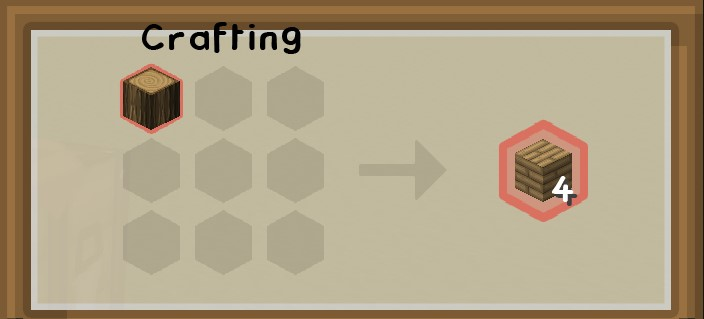
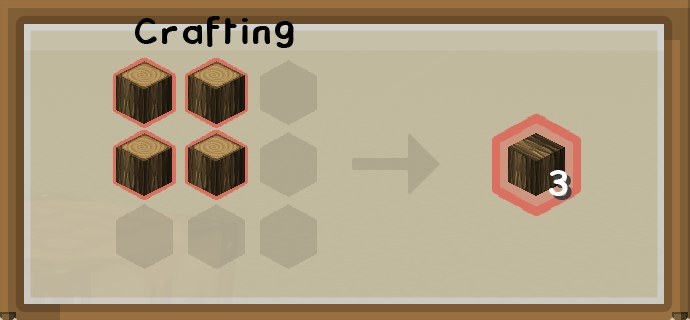
add: more recipies

Changed region(s): [[0.0, 0.0, 1.0, 1.0], [0.7, 0.3386, 0.8522, 0.7053]]

diff --git a/minecraft-builder/src/PageComponents/RecipeLookup/RecipeLookup.tsx b/minecraft-builder/src/PageComponents/RecipeLookup/RecipeLookup.tsx
@@ -75,6 +75,71 @@ import image70 from "../../assets/recipies/trapdoor.jpg";
 import image71 from "../../assets/recipies/waxedcopper.jpg";
 import image72 from "../../assets/recipies/wood.jpg";
 import image73 from "../../assets/recipies/wool.jpg";
+import image74 from "../../assets/recipies/blastFurance.jpg";
+import image75 from "../../assets/recipies/bread.jpg";
+import image76 from "../../assets/recipies/brewingStand.jpg";
+import image77 from "../../assets/recipies/carpet.jpg";
+import image78 from "../../assets/recipies/cauldron.jpg";
+import image79 from "../../assets/recipies/chain.jpg";
+import image80 from "../../assets/recipies/chiseledDeepslate.jpg";
+import image81 from "../../assets/recipies/chiseledPolishedBlackstone.jpg";
+import image82 from "../../assets/recipies/chiseledQuartz.jpg";
+import image83 from "../../assets/recipies/chiseledredsandstone.jpg";
+import image84 from "../../assets/recipies/chiseledStandstone.jpg";
+import image85 from "../../assets/recipies/coalblock.jpg";
+import image86 from "../../assets/recipies/copperBlock.jpg";
+import image87 from "../../assets/recipies/crimsonHyphane.jpg";
+import image88 from "../../assets/recipies/cutRedSandstone.jpg";
+import image89 from "../../assets/recipies/cutSandstone.jpg";
+import image90 from "../../assets/recipies/darkPrismarine.jpg";
+import image91 from "../../assets/recipies/deepslateBricks.jpg";
+import image92 from "../../assets/recipies/deepslateTiles.jpg";
+import image93 from "../../assets/recipies/driedKelp.jpg";
+import image94 from "../../assets/recipies/emeraldBlock.jpg";
+import image95 from "../../assets/recipies/exposedCutCopper.jpg";
+import image96 from "../../assets/recipies/flintandSteal.jpg";
+import image97 from "../../assets/recipies/glisteringMelon.jpg";
+import image98 from "../../assets/recipies/goldblock.jpg";
+import image99 from "../../assets/recipies/goldenCarrot.jpg";
+import image100 from "../../assets/recipies/grindstone.jpg";
+import image101 from "../../assets/recipies/hay.jpg";
+import image102 from "../../assets/recipies/honeyblock.jpg";
+import image103 from "../../assets/recipies/honeycombBlock.jpg";
+import image104 from "../../assets/recipies/ironBlock.jpg";
+import image105 from "../../assets/recipies/LapisBlock.jpg";
+import image106 from "../../assets/recipies/lectern.jpg";
+import image107 from "../../assets/recipies/melon.jpg";
+import image108 from "../../assets/recipies/mossyStonebricks.jpg";
+import image109 from "../../assets/recipies/mushroomStew.jpg";
+import image110 from "../../assets/recipies/netherBricks.jpg";
+import image111 from "../../assets/recipies/oxidizedCutCopper.jpg";
+import image112 from "../../assets/recipies/Pillarquartz.jpg";
+import image113 from "../../assets/recipies/planks.jpg";
+import image114 from "../../assets/recipies/polishedBasalt.jpg";
+import image115 from "../../assets/recipies/poloshedBlackstoneBricks.jpg";
+import image116 from "../../assets/recipies/purpurBlock.jpg";
+import image117 from "../../assets/recipies/purpurPillar.jpg";
+import image118 from "../../assets/recipies/rail.jpg";
+import image119 from "../../assets/recipies/rawCopperBlock.jpg";
+import image120 from "../../assets/recipies/RawGoldBlock.jpg";
+import image121 from "../../assets/recipies/redNetherBrick.jpg";
+import image122 from "../../assets/recipies/redsandstone.jpg";
+import image123 from "../../assets/recipies/shears.jpg";
+import image124 from "../../assets/recipies/smoker.jpg";
+import image125 from "../../assets/recipies/strippedwood.jpg";
+import image126 from "../../assets/recipies/terracotta.jpg";
+import image127 from "../../assets/recipies/waxedCutCopper.jpg";
+import image128 from "../../assets/recipies/waxedExposedCopper.jpg";
+import image129 from "../../assets/recipies/waxedExposedCutCopper.jpg";
+import image130 from "../../assets/recipies/waxedOxidizedCopper.jpg";
+import image131 from "../../assets/recipies/waxedOxidizedCutCopper.jpg";
+import image132 from "../../assets/recipies/waxedWeatheredCopper.jpg";
+import image133 from "../../assets/recipies/waxedWeatheredCutCopper.jpg";
+import image134 from "../../assets/recipies/weatheredCutCopper.jpg";
+import image135 from "../../assets/recipies/woolcolors.jpg";
+import image136 from "../../assets/recipies/lead.jpg";
+
+
 
 interface RecipeImages {
   [key: string]: string;
@@ -87,7 +152,7 @@ export const RecipeLookup = () => {
     arrow: image4,
     axe: image5,
     bamboo_plank: image6,
-    bars: image7,
+    iron_bars: image7,
     bed: image8,
     block_of_bamboo: image9,
     boat: image10,
@@ -101,8 +166,8 @@ export const RecipeLookup = () => {
     candle: image18,
     chest: image19,
     chestplate: image20,
-    chiseled_brick: image21,
-    chiseled_netherbrick: image22,
+    chiseled_brick_block: image21,
+    chiseled_netherbrick_block: image22,
     clock: image23,
     cobblestone_wall: image24,
     compass: image25,
@@ -112,20 +177,20 @@ export const RecipeLookup = () => {
     diamond_block: image29,
     door: image30,
     enchantment_table: image31,
-    endbrick: image32,
+    end_stone_brick: image32,
     fence: image33,
     fishing_rod: image34,
-    gate: image35,
+    fence_gate: image35,
     golden_apple: image36,
     hanging_sign: image37,
     helmet: image38,
     hoe: image39,
-    itemframe: image40,
+    item_frame: image40,
     ladder: image41,
     lantern: image42,
     mossy_cobblestone: image43,
     painting: image44,
-    panes: image45,
+    glass_panes: image45,
     leggings: image46,
     pickaxe: image47,
     flower_pot: image48,
@@ -134,7 +199,7 @@ export const RecipeLookup = () => {
     quartz_block: image51,
     quartz_brick: image52,
     raw_iron_block: image53,
-    sand: image54,
+    sandstone: image54,
     scaffolding: image55,
     shield: image56,
     shovel: image57,
@@ -152,8 +217,75 @@ export const RecipeLookup = () => {
     torch: image69,
     trapdoor: image70,
     waxed_copper_block: image71,
-    wood: image72,
+    planks: image72,
     wool: image73,
+    blast_furnace: image74,
+    bread: image75,
+    brewing_stand: image76,
+    carpet: image77,
+    cauldron: image78,
+    chain: image79,
+    chiseled_deepslate: image80,
+    chiseled_polished_blackstone: image81,
+    chiseled_quartz: image82,
+    chiseled_red_sandstone: image83,
+    chiseled_sandstone: image84,
+    coal_block: image85,
+    copper_block: image86,
+    crimson_hyphae: image87,
+    cut_red_sandstone: image88,
+    cut_sandstone: image89,
+    dark_prismarine: image90,
+    deepslate_bricks: image91,
+    deepslate_tile: image92,
+    dried_kelp: image93,
+    emerald_block: image94,
+    exposed_cut_copper: image95,
+    flint_and_steel: image96,
+    glistering_melon: image97,
+    gold_block: image98,
+    golden_carrot: image99,
+    grindstone: image100,
+    hay: image101,
+    honey_block: image102,
+    honeycomb_block: image103,
+    iron_block: image104,
+    lapis_lazuli_block: image105,
+    lectern: image106,
+    melon: image107,
+    mossy_stone_brick: image108,
+    mushroom_stew: image109,
+    nether_brick: image110,
+    oxidized_cut_copper: image111,
+    quartz_pillar: image112,
+    wood_plank: image113,
+    polished_basalt: image114,
+    polished_blackstone_brick: image115,
+    purpur_block: image116,
+    purpur_pillar: image117,
+    rail: image118,
+    raw_copper_block: image119,
+    raw_gold_block: image120,
+    red_nether_brick: image121,
+    red_sandstone: image122,
+    shears: image123,
+    smoker: image124,
+    stripped_wood_block: image125,
+    terracotta: image126,
+    waxed_cut_copper_block: image127,
+    waxed_exposed_copper_block: image128,
+    waxed_exposed_cut_copper_block: image129,
+    waxed_oxidized_copper_block: image130,
+    waxed_oxidized_cut_copper_block: image131,
+    waxed_weathered_copper_block: image132,
+    waxed_weathered_cut_copper_block: image133,
+    weathered_cut_copper_block: image134,
+    dyed_wool: image135,
+    lead: image136,
+    
+    
+
+
   };
 
   const handleInputChange = (e: ChangeEvent<HTMLInputElement>) => {
@@ -165,13 +297,13 @@ export const RecipeLookup = () => {
   const getImageElements = () => {
     const imageElements = [];
     for (const key in recipeImages) {
-      // Check if the key starts with the search term
+      
       if (key.startsWith(searchTerm)) {
-        // Replace underscores with spaces for display
+       
         const imageDescription = key.replace(/_/g, " ");
         const imageSrc = recipeImages[key];
 
-        // Create the image element
+        
         const imageElement = (
           <div key={key}>
             <p>{imageDescription}</p>
@@ -183,7 +315,7 @@ export const RecipeLookup = () => {
           </div>
         );
 
-        // Add the image element to the array
+        
         imageElements.push(imageElement);
       }
     }
